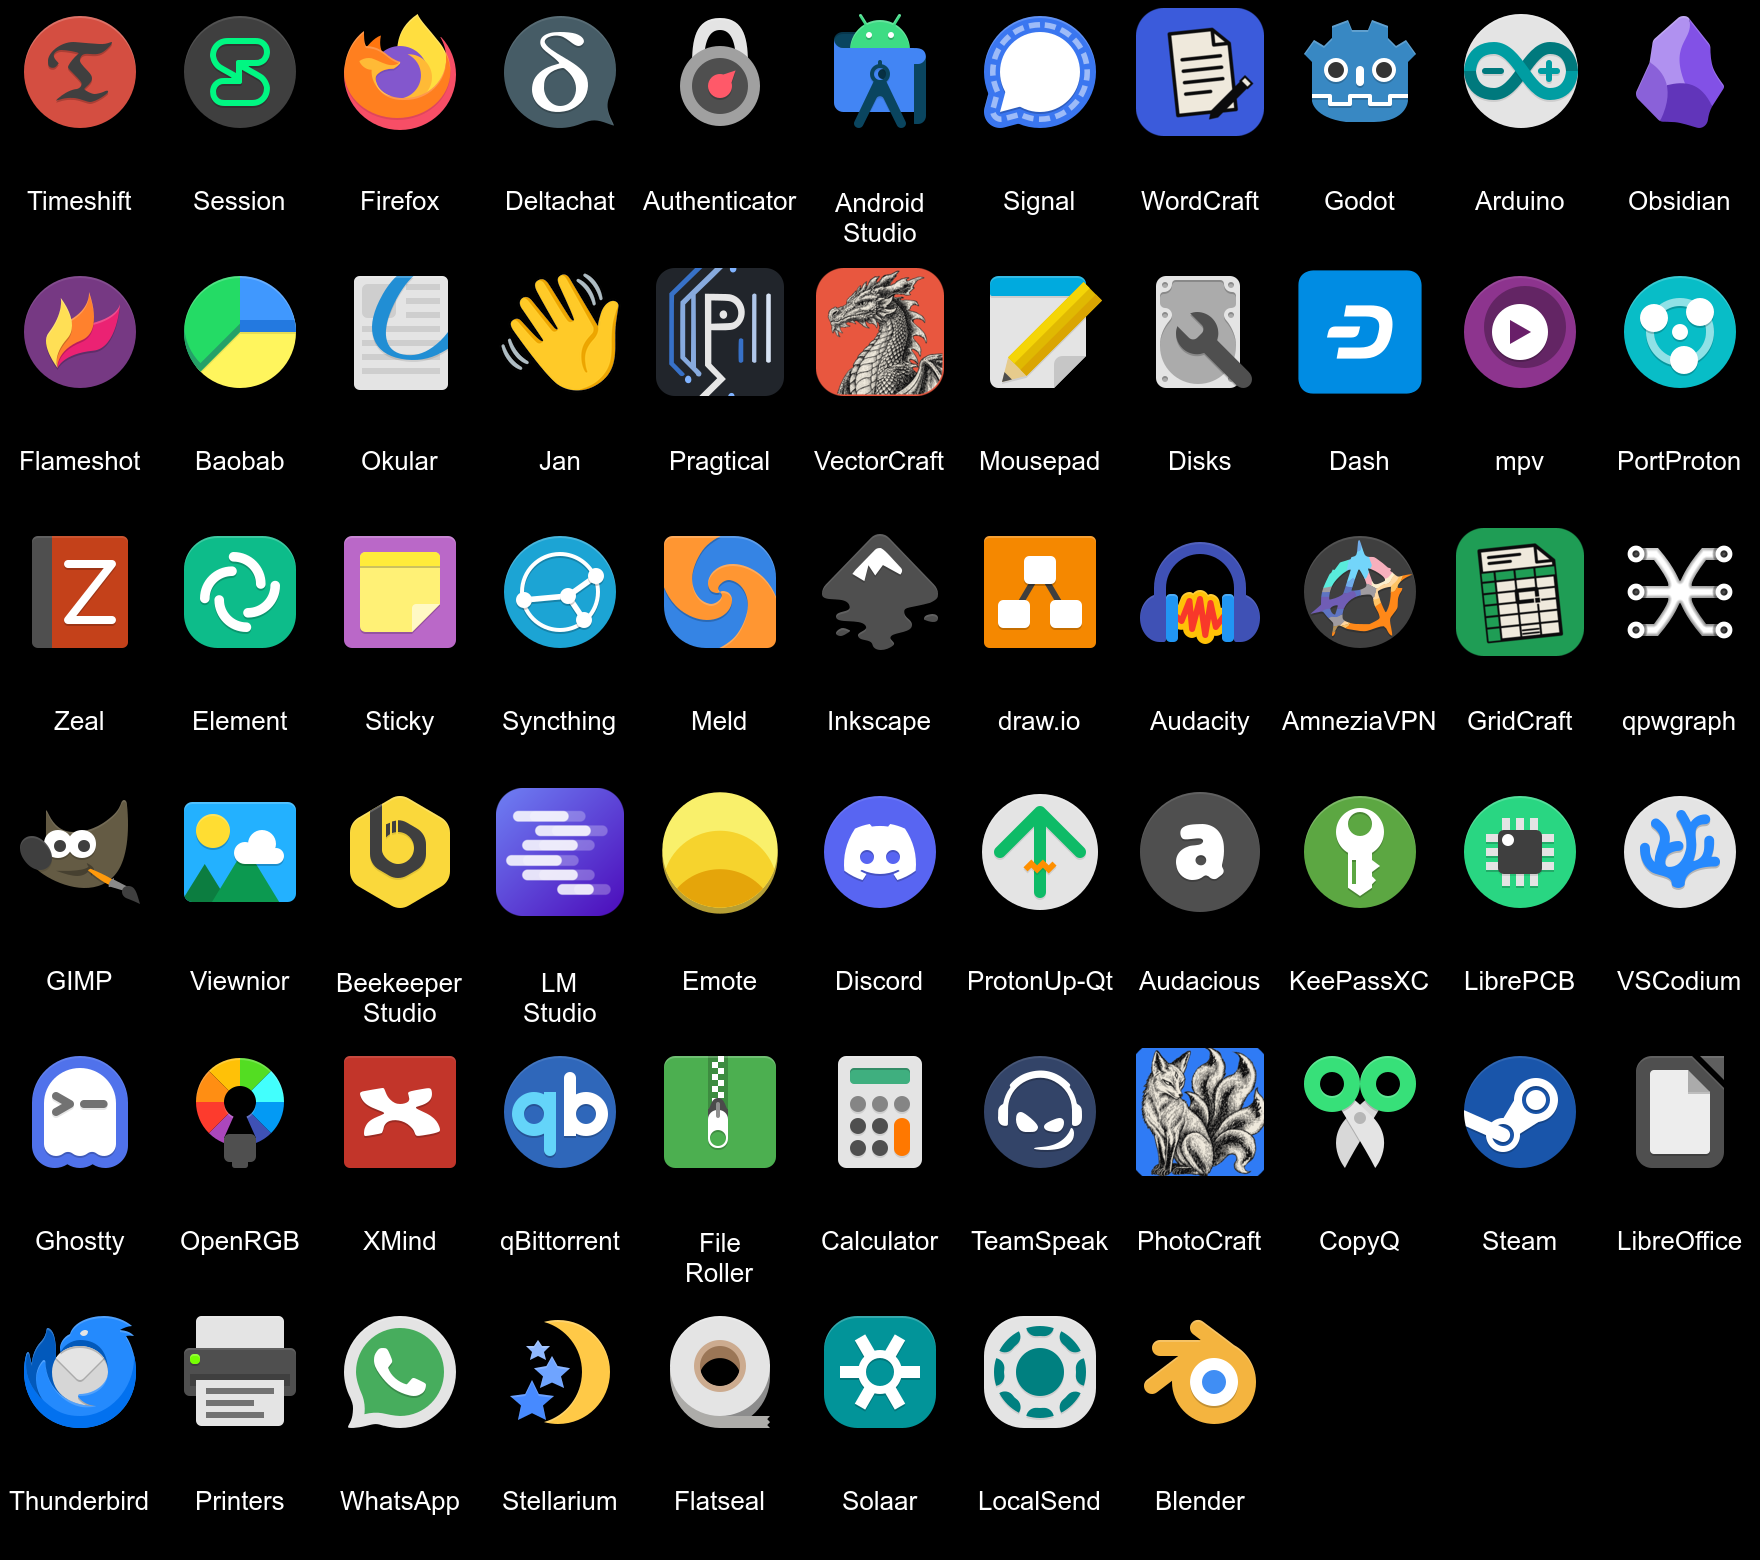
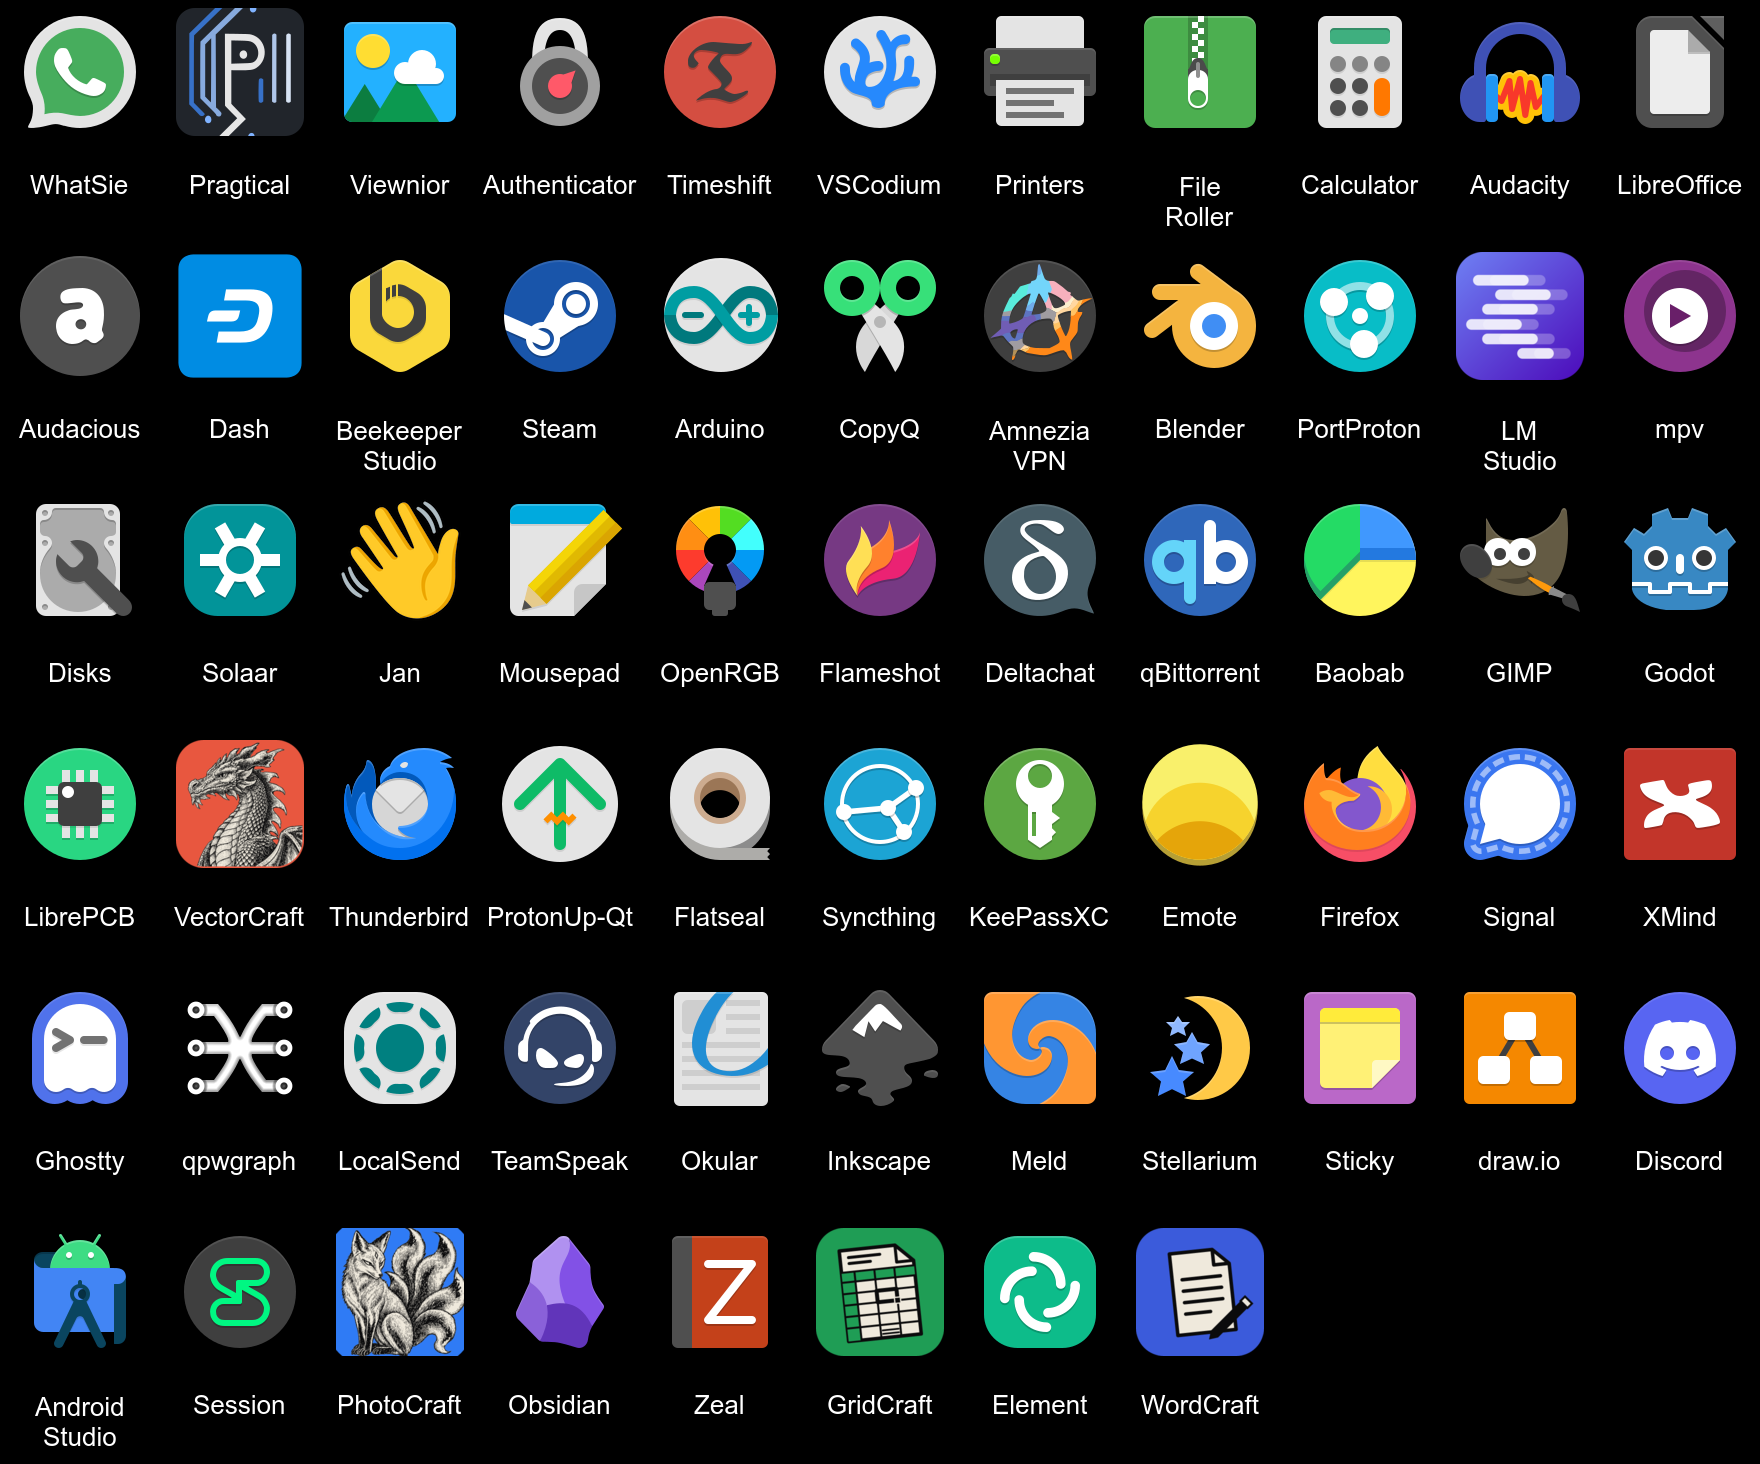
Доска приложений: WhatSie, Amnezia VPN, отступ 48 → 32 px
whatsie подписан WhatSie (клиент WhatsApp, не сам мессенджер);
Amnezia VPN разбит на две строки; прозрачное поле под подписью
уменьшено с 48 до 32 px — отступ от иконки меньше.

diff --git a/Cards/Доска приложений - Планирование иконок.md b/Cards/Доска приложений - Планирование иконок.md
@@ -138,7 +138,8 @@ lmstudio, qpwgraph — у них Papirus не знает имён, пакеты 
 Под каждой иконкой — подписываемое имя программы (колонка «подпись»
 в `icons.tsv` скрипта). Длинные двухсловные названия переносятся на
 две строки через `\n`: File Roller, Android Studio, Beekeeper Studio,
-LM Studio. Остальные — одна строка.
+LM Studio, Amnezia VPN. Подпись WhatSie (не WhatsApp — это клиент
+WhatsApp, не сам мессенджер). Остальные — одна строка.
 
 ## Пути поиска
 
